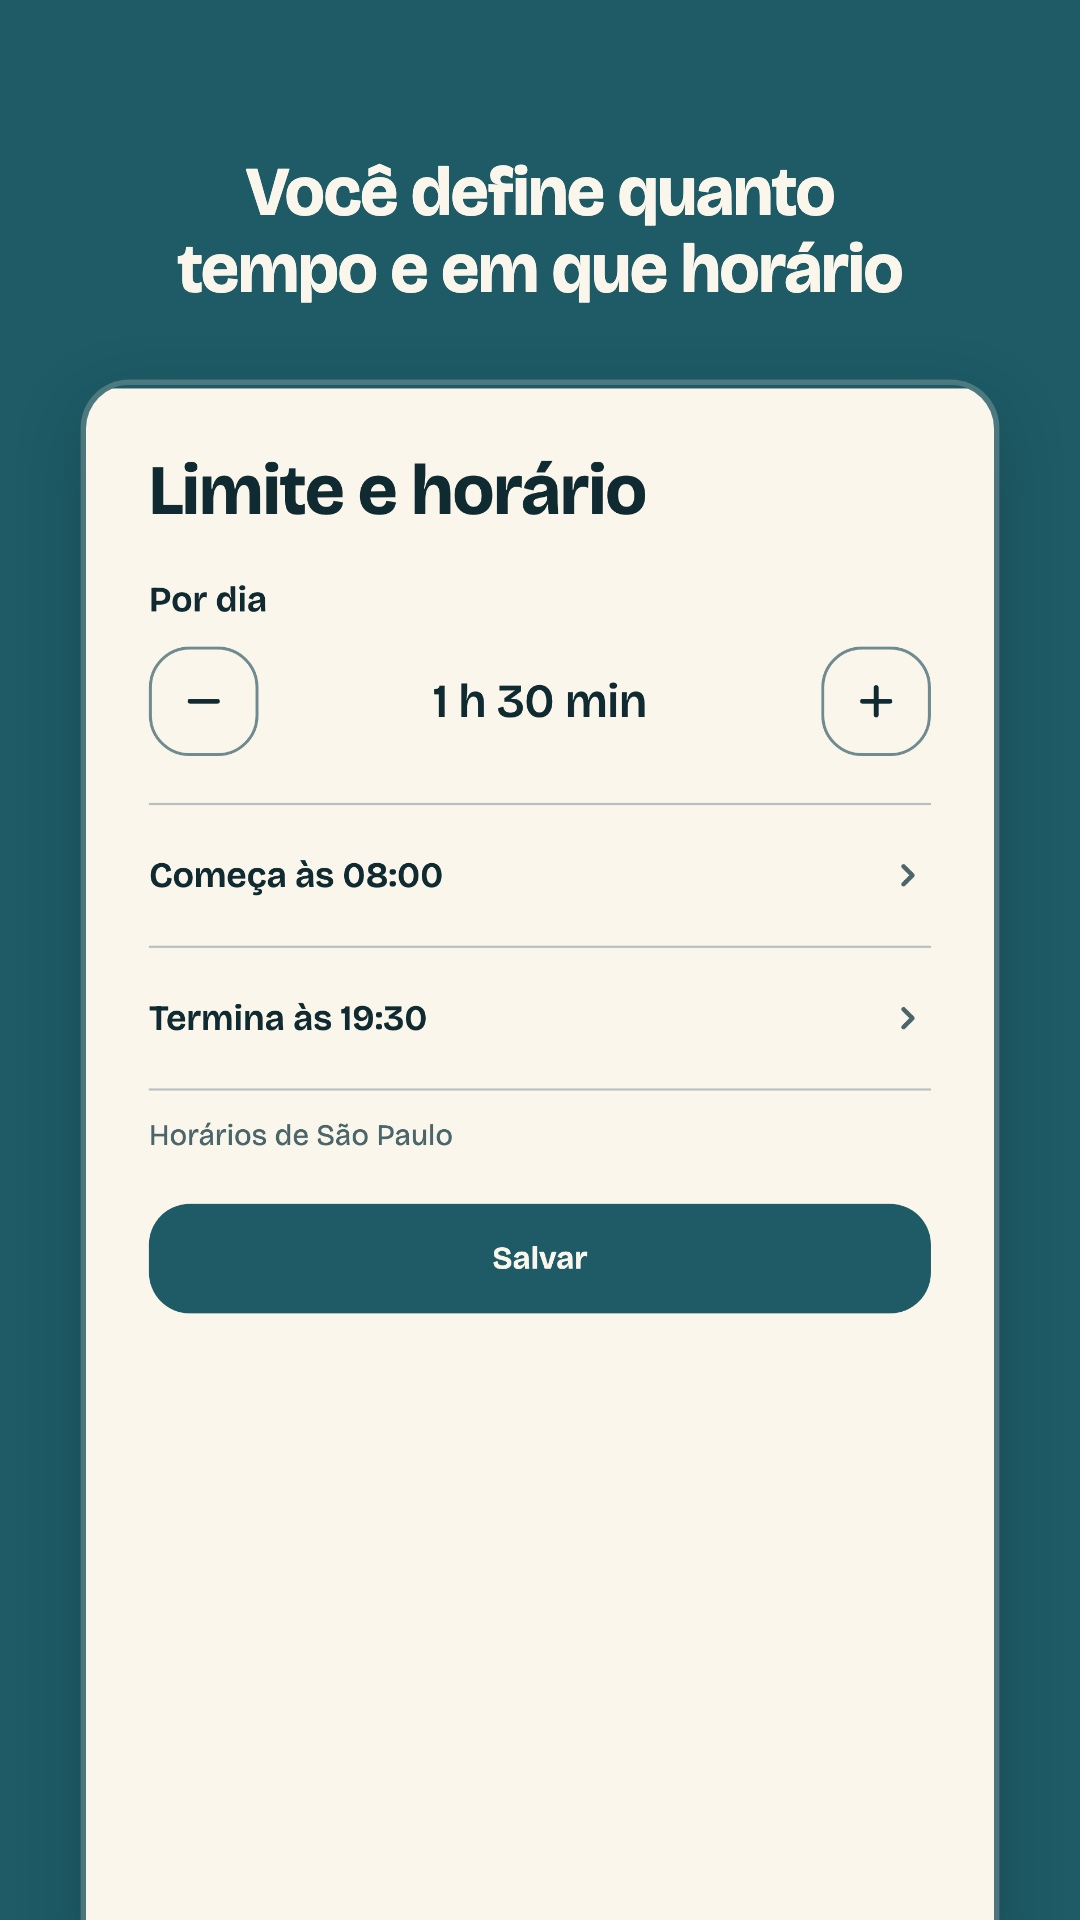
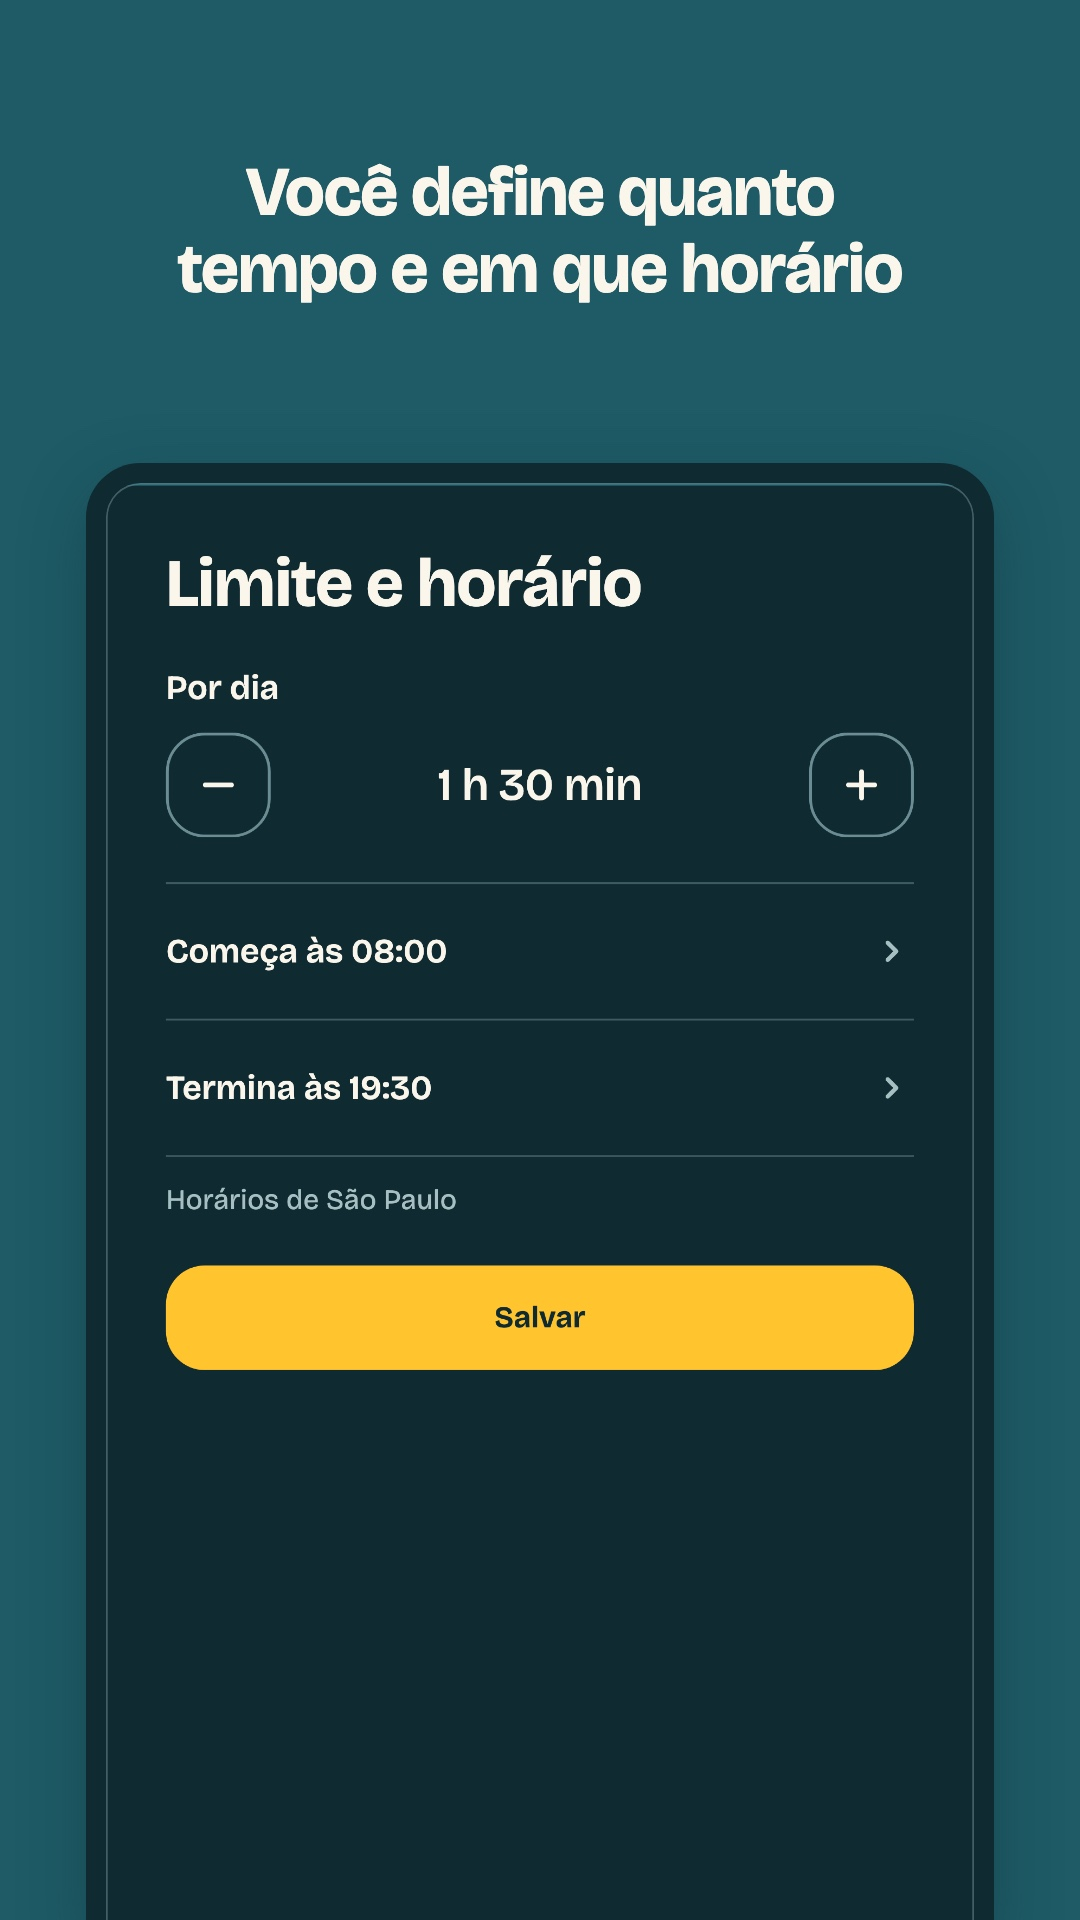
feat(stores): compose the store screenshots as one dark set in one bezel (#135)
* feat(stores): capture the store screens in the dark theme

Every frame is captured with the platform set to dark, through one
switch: make store-screens STORE_THEME=light brings back the light set.
The capture writes the theme it used beside each screen.

* feat(stores): hold every store screenshot in one device bezel

Each capture now sits in a dark phone or tablet bezel with a faint
outline inside it, so the kid screen and the dark guardian screens both
read as a device on the petrol ground. The screens of one size start
below the tallest caption of the set, so they line up side by side.
The composer refuses a set that mixes themes and records each image's
theme and checksum. A few crops move so no line of text or button is
cut by the bottom edge.

* test(stores): check every store screenshot was composed in one theme

---------

diff --git a/app/store_screens/frame.html b/app/store_screens/frame.html
@@ -4,16 +4,20 @@
   <meta charset="utf-8">
   <title>Telinha Segura: store screenshot frame</title>
   <!--
-    One store screenshot: a caption over a real screen of the app that runs
-    off the bottom edge. compose.sh renders it with headless Chrome, sized
-    and filled by the query string:
+    One store screenshot: a caption over a real screen of the app, held in
+    a device bezel that runs off the bottom edge. compose.sh renders it with
+    headless Chrome, sized and filled by the query string:
 
-      w, h     canvas size in pixels (the store size)
-      caption  the line above the screen
-      shot     file URL of the raw capture of the screen
-      crop     optional "x0,y0,x1": the part of the capture to show, as
-               fractions of its width and height; it runs to the bottom of
-               the capture, and the default "0,0,1" shows all of it
+      w, h      canvas size in pixels (the store size)
+      device    "phone" or "tablet": the bezel drawn around the screen
+      caption   the line above the screen
+      captions  every caption of the set, one per line: the screen starts
+                below the tallest of them, so the frames of one size line
+                up side by side in a listing
+      shot      file URL of the raw capture of the screen
+      crop      optional "x0,y0,x1": the part of the capture to show, as
+                fractions of its width and height; it runs to the bottom of
+                the capture, and the default "0,0,1" shows all of it
 
     Every measure is a proportion of the canvas, so one layout serves the
     phone, the tablet and the iPad sizes. The crop only zooms into the real
@@ -31,6 +35,11 @@
     :root {
       --ink: #1E5B66;
       --cream: #FBF6EC;
+      --dark: #0F2A30;
+      /* The dark theme's outline tone: a hairline inside the bezel keeps
+         the edge of a screen whose ground is the bezel's own colour. */
+      --outline: #6A8D93;
+      --edge: color-mix(in srgb, var(--outline) 55%, transparent);
     }
 
     html,
@@ -58,9 +67,29 @@
       text-wrap: balance;
     }
 
-    .screen {
+    .measure {
+      visibility: hidden;
+    }
+
+    .device {
       position: absolute;
+      box-sizing: border-box;
+      background: var(--dark);
+    }
+
+    .screen {
+      position: relative;
       overflow: hidden;
+      height: 100%;
+    }
+
+    .screen::after {
+      content: "";
+      position: absolute;
+      inset: 0;
+      border-radius: inherit;
+      box-shadow: inset 0 0 0 var(--hairline) var(--edge);
+      pointer-events: none;
     }
 
     .screen img {
@@ -77,20 +106,22 @@
 <body>
   <div class="frame">
     <h1></h1>
-    <div class="screen"><img alt=""></div>
+    <div class="device"><div class="screen"><img alt=""></div></div>
   </div>
   <script>
     const q = new URLSearchParams(location.search);
     const w = Number(q.get("w"));
     const h = Number(q.get("h"));
     const [x0, y0, x1] = (q.get("crop") || "0,0,1").split(",").map(Number);
-    // Tablets are squarer than phones: a narrower screen and a caption set
-    // in a narrower measure keep the same balance on the wider canvas. The
-    // Play tablet set is 9:16 like the phones, so it takes the phone measures.
-    const tablet = h / w < 1.7;
+    // The iPad canvas is squarer than a phone's: a narrower screen and a
+    // caption set in a narrower measure keep the same balance on it. The
+    // Play tablet set is 9:16 like the phones, so it takes the phone
+    // measures, though its screen sits in a tablet's bezel.
+    const square = h / w < 1.7;
 
     const frame = document.querySelector(".frame");
     const title = document.querySelector("h1");
+    const device = document.querySelector(".device");
     const screen = document.querySelector(".screen");
     const shot = document.querySelector("img");
 
@@ -98,18 +129,43 @@
     document.body.style.height = frame.style.height = h + "px";
 
     title.textContent = q.get("caption");
-    const side = (tablet ? 0.12 : 0.07) * w;
+    const side = (square ? 0.12 : 0.07) * w;
+    const fontSize = (square ? 0.058 : 0.064) * w;
     title.style.left = title.style.right = side + "px";
-    title.style.fontSize = (tablet ? 0.058 : 0.064) * w + "px";
+    title.style.fontSize = fontSize + "px";
 
-    const cardW = (tablet ? 0.80 : 0.84) * w;
-    screen.style.width = cardW + "px";
-    screen.style.left = (w - cardW) / 2 + "px";
-    screen.style.borderRadius = 0.04 * w + "px";
-    // A faint cream rim keeps the edge of an ink-coloured screen (kid mode)
-    // from melting into the ground.
-    screen.style.boxShadow = `0 0 0 ${0.005 * w}px rgba(251, 246, 236, .22), ` +
-      `0 ${0.02 * w}px ${0.06 * w}px rgba(15, 42, 48, .35)`;
+    // The bezel follows a phone's proportions: a border about a thirtieth
+    // of the device's width and corners about a seventh of it. A tablet's
+    // border and corners are thinner in proportion to its wider face.
+    const deviceW = (square ? 0.80 : 0.84) * w;
+    const tablet = q.get("device") === "tablet";
+    const border = (tablet ? 0.022 : 0.033) * deviceW;
+    const radius = (tablet ? 0.06 : 0.147) * deviceW;
+    const cardW = deviceW - 2 * border;
+    device.style.width = deviceW + "px";
+    device.style.left = (w - deviceW) / 2 + "px";
+    device.style.padding = `${border}px ${border}px 0`;
+    // The device runs off the bottom edge: only its top corners show.
+    device.style.borderRadius = `${radius}px ${radius}px 0 0`;
+    device.style.boxShadow = `0 ${0.02 * w}px ${0.06 * w}px rgba(15, 42, 48, .35)`;
+    screen.style.borderRadius = `${radius - border}px ${radius - border}px 0 0`;
+    screen.style.setProperty("--hairline", Math.max(1, 0.0016 * w) + "px");
+
+    // The tallest caption of the set, set the same way as this one.
+    function tallest() {
+      const all = (q.get("captions") || q.get("caption")).split("\n")
+        .filter((c) => c.trim() !== "");
+      let most = 0;
+      for (const c of all) {
+        const probe = title.cloneNode();
+        probe.classList.add("measure");
+        probe.textContent = c;
+        frame.appendChild(probe);
+        most = Math.max(most, probe.getBoundingClientRect().height);
+        probe.remove();
+      }
+      return most;
+    }
 
     function fail() {
       frame.classList.add("blank");
@@ -124,11 +180,12 @@
       }
       const top = 0.08 * h;
       const gap = 0.04 * h;
-      // The card runs past the bottom edge, so its lower corners are cut.
-      const cut = 0.03 * h;
+      // The device runs a little past the bottom edge, so no sliver of
+      // ground shows under it.
+      const cut = 0.01 * h;
       title.style.top = top + "px";
-      const cardTop = top + title.getBoundingClientRect().height + gap;
-      const cardH = h - cardTop + cut;
+      const deviceTop = top + tallest() + gap;
+      const cardH = h - deviceTop - border + cut;
       const imgW = cardW / (x1 - x0);
       const imgH = imgW * shot.naturalHeight / shot.naturalWidth;
       // The capture must fill the card down past the edge; a crop that
@@ -136,8 +193,8 @@
       if ((1 - y0) * imgH < cardH) {
         return fail();
       }
-      screen.style.top = cardTop + "px";
-      screen.style.height = cardH + "px";
+      device.style.top = deviceTop + "px";
+      device.style.height = cardH + border + "px";
       shot.style.width = imgW + "px";
       shot.style.left = -x0 * imgW + "px";
       shot.style.top = -y0 * imgH + "px";

diff --git a/app/test/store_screens/store_screens_test.dart b/app/test/store_screens/store_screens_test.dart
@@ -50,6 +50,17 @@ class Frame {
 
 final outDir = Directory('build/store_screens/raw');
 
+/// The theme every frame is captured in, one for the whole set so the
+/// listing reads as one app: dark by default, light with
+/// `make store-screens STORE_THEME=light`.
+const storeTheme = String.fromEnvironment('STORE_THEME', defaultValue: 'dark');
+
+Brightness get storeBrightness => switch (storeTheme) {
+  'dark' => Brightness.dark,
+  'light' => Brightness.light,
+  _ => throw StateError('STORE_THEME must be dark or light, not $storeTheme'),
+};
+
 /// Three fictional children: Lia (fox, 5 to 8), Téo (owl, up to 4) and
 /// Bia (cat, 9 to 12).
 final demoFamily = familyWith([
@@ -161,6 +172,10 @@ Future<void> capture(WidgetTester tester, Profile p, Frame f) async {
     final file = File('${outDir.path}/${p.name}/${f.number}.png')
       ..createSync(recursive: true);
     file.writeAsBytesSync(bytes!.buffer.asUint8List());
+    // The theme beside the capture, so the composer can refuse a set that
+    // mixes themes.
+    File('${outDir.path}/${p.name}/${f.number}.theme')
+        .writeAsStringSync('${storeBrightness.name}\n');
   });
 }
 
@@ -277,6 +292,8 @@ void main() {
     for (final f in frames) {
       testWidgets('store frame ${f.number} on ${p.name}', (tester) async {
         debugDefaultTargetPlatformOverride = p.platform;
+        tester.platformDispatcher.platformBrightnessTestValue = storeBrightness;
+        addTearDown(tester.platformDispatcher.clearPlatformBrightnessTestValue);
         try {
           // A fixed afternoon, so the home greets the same way on every run.
           await withClock(Clock.fixed(DateTime(2026, 11, 10, 15)), () async {

diff --git a/tools/repoconfig/store_images_test.go b/tools/repoconfig/store_images_test.go
@@ -1,6 +1,7 @@
 package repoconfig
 
 import (
+	"crypto/sha256"
 	"fmt"
 	"image/jpeg"
 	"image/png"
@@ -132,6 +133,62 @@ func TestStoreScreenshotSetsMatch(t *testing.T) {
 		if caps[n] == "" {
 			t.Errorf("frame %s has no caption in app/store_screens/captions.tsv", n)
 		}
+	}
+}
+
+// The listing reads as one app only if every screenshot shows the same
+// theme. The composer records, beside the images, the theme each one was
+// captured in and the SHA-256 of the file it wrote, so an image replaced
+// by hand, or one left from another run, has no honest record here.
+func TestStoreScreenshotsAreOneTheme(t *testing.T) {
+	const record = "app/store_screens/themes.tsv"
+	recorded := map[string][2]string{}
+	themes := map[string]bool{}
+	for _, line := range strings.Split(strings.TrimRight(read(t, record), "\n"), "\n") {
+		f := strings.Split(line, "\t")
+		if len(f) != 3 {
+			t.Fatalf("%s: want image, theme and SHA-256 in %q", record, line)
+		}
+		recorded[f[0]] = [2]string{f[1], f[2]}
+		themes[f[1]] = true
+	}
+	if len(themes) != 1 {
+		t.Errorf("%s: the screenshots mix themes %v", record, themes)
+	}
+	for theme := range themes {
+		if theme != "dark" && theme != "light" {
+			t.Errorf("%s: unknown theme %q", record, theme)
+		}
+	}
+	seen := 0
+	for _, s := range imageSets {
+		re := regexp.MustCompile(s.pattern)
+		entries, err := os.ReadDir(filepath.Join(Root(), s.dir))
+		if err != nil {
+			t.Fatal(err)
+		}
+		for _, e := range entries {
+			if !re.MatchString(e.Name()) {
+				continue
+			}
+			rel := s.dir + "/" + e.Name()
+			r, ok := recorded[rel]
+			if !ok {
+				t.Errorf("%s has no theme in %s; compose it with make store-screens", rel, record)
+				continue
+			}
+			seen++
+			data, err := os.ReadFile(filepath.Join(Root(), rel))
+			if err != nil {
+				t.Fatal(err)
+			}
+			if sum := fmt.Sprintf("%x", sha256.Sum256(data)); sum != r[1] {
+				t.Errorf("%s is not the image the composer recorded; compose it with make store-screens", rel)
+			}
+		}
+	}
+	if seen != len(recorded) {
+		t.Errorf("%s records %d images, %d are committed", record, len(recorded), seen)
 	}
 }
 
